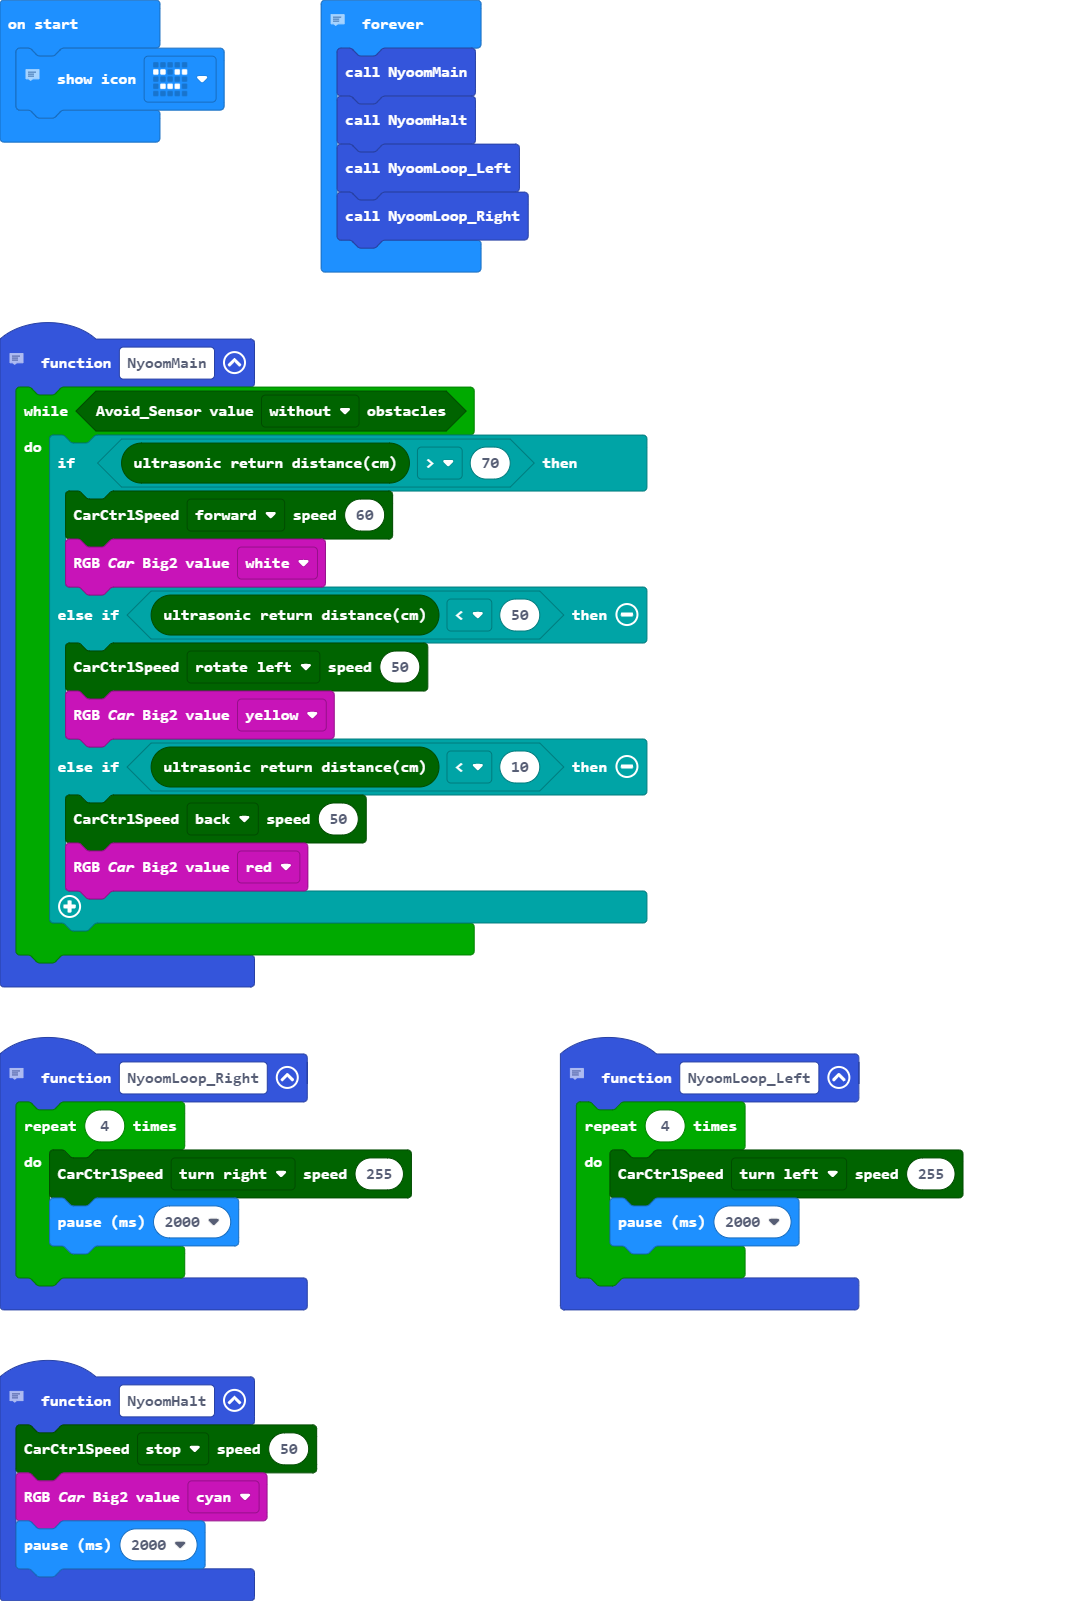
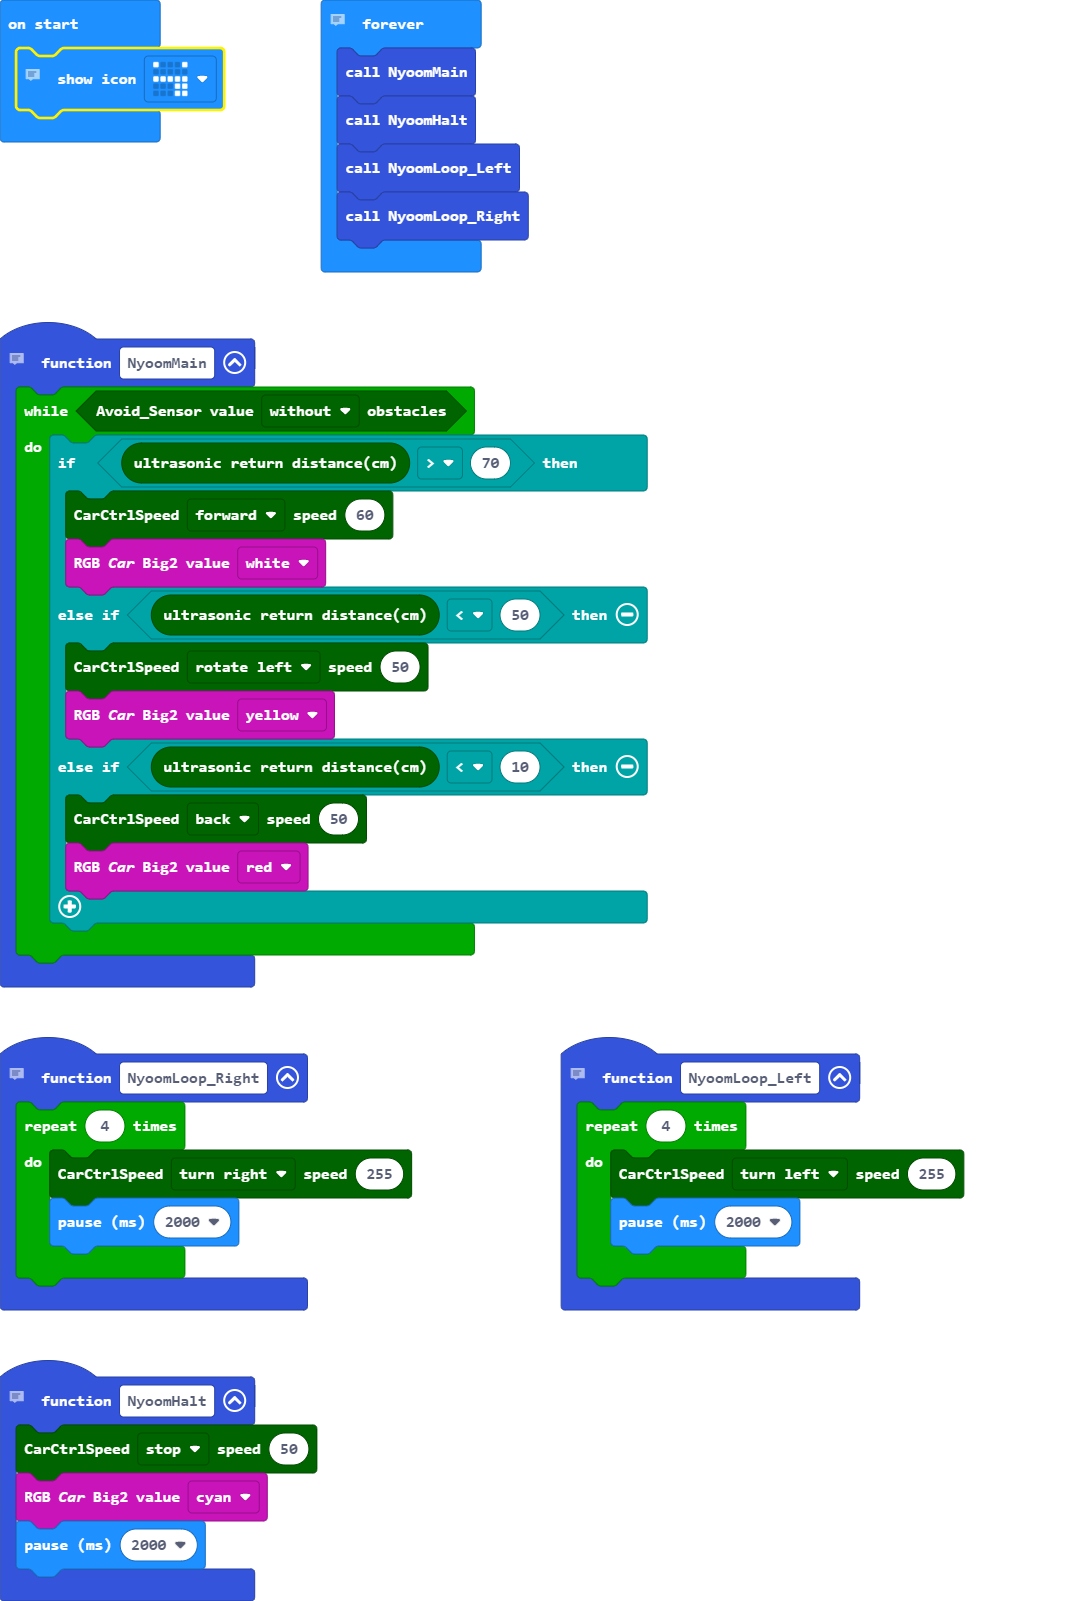
LED change.

Changed region(s): [[0.1237, 0.0, 0.2165, 0.0937], [0.0309, 0.0625, 0.0619, 0.0937], [0.0, 0.0312, 0.0309, 0.0625]]

diff --git a/main.ts b/main.ts
@@ -34,7 +34,7 @@ function NyoomLoop_Left () {
     }
 }
 // LED display.
-basic.showIcon(IconNames.Asleep)
+basic.showIcon(IconNames.Silly)
 // Nyoom functions make Nyoom code.
 basic.forever(function () {
     NyoomMain()
